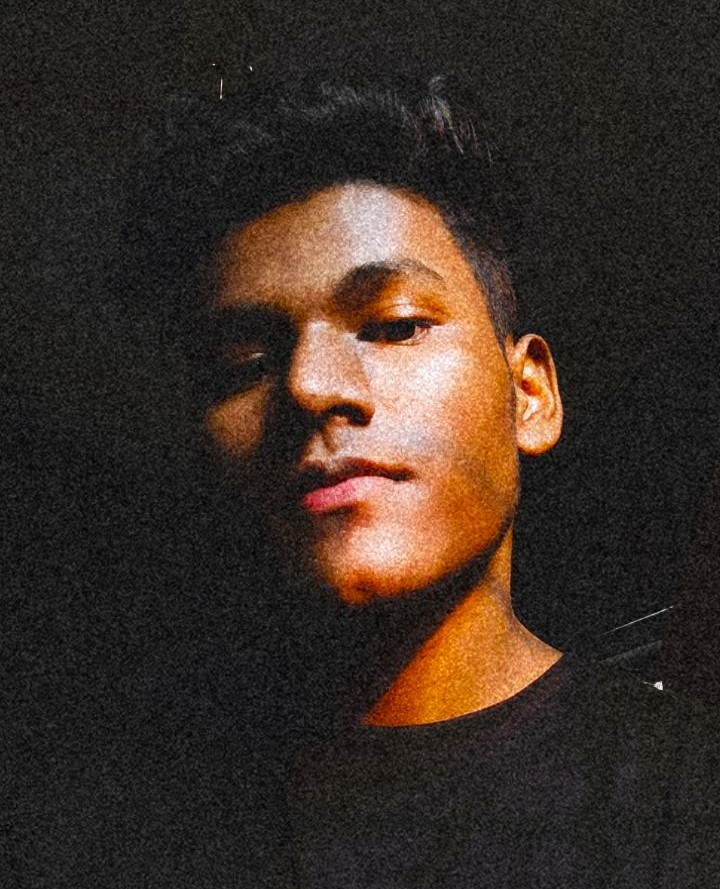
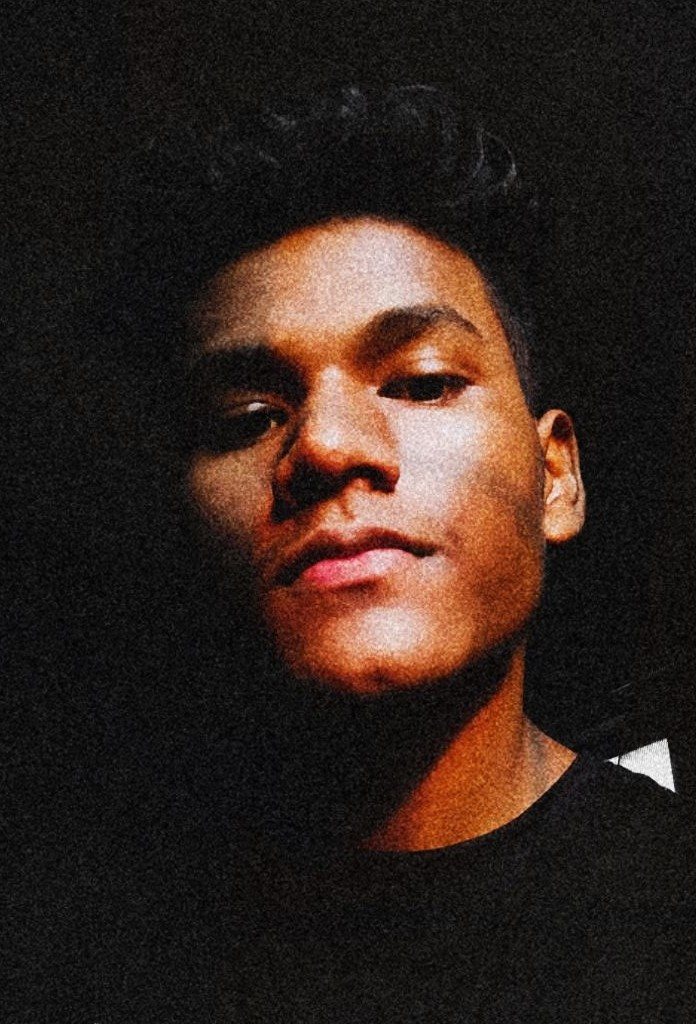
ready

diff --git a/src/components/WorkExperience.jsx b/src/components/WorkExperience.jsx
@@ -5,6 +5,7 @@ import gsap from 'gsap'
 import ScrollTrigger from 'gsap/dist/ScrollTrigger';
 import { WORK_EXPERIENCE } from '../constants';
 import { Dancing_Script } from 'next/font/google'
+import { me_ } from '../assests';
 
 
 const DS_font = Dancing_Script({ subsets: ['latin'] ,weight: ['400', '700']})
@@ -92,8 +93,10 @@ const WorkExperience = () => {
         </div>
 
         <div className='relative flex justify-center items-center h-full overflow-hidden'>
-            <div className='absolute left-1/2 -translate-x-1/2 border top-0 bottom-0 w-2 border-[#987070] border-x-4 z-0'></div>
-            <div className='absolute left-1/2 -translate-x-1/2 border top-0 bottom-0 block h-20 w-20 rounded-full bg-cyan-400 md:z-20 z-10' id='rounded-me'></div>
+            <div className='absolute left-1/2 -translate-x-1/2 border top-0 bottom-0 w-2 border-[#865f5f] border-x-8 z-0 rounded-tl-[50%] rounded-tr-[50%]'></div>
+            <div className='absolute left-1/2 -translate-x-1/2 border top-0 bottom-0 block h-20 w-20 rounded-full bg-cyan-400 md:z-20 z-10' id='rounded-me'>
+            <Image src={me_} alt='' className='h-full w-full rounded-full'></Image>
+            </div>
             <div className=' font-mono exp-container h-full w-full md:p-5 p-1  flex flex-col md:justify-around justify-center md:gap-0 gap-12 items-center'>
                 {WORK_EXPERIENCE.map((exp,i)=>{
                     if(i){

diff --git a/src/components/About.jsx b/src/components/About.jsx
@@ -14,6 +14,17 @@ import {me,bottom_design} from "../assests"
 
     useEffect(()=>{
         
+        gsap.to('#me',{
+            borderRadius:'50%',
+            duration:1,
+            ease:'circ',
+            scrollTrigger:{
+                trigger:'#about',
+                start:'top center',
+                end:'bottom top',
+                scrub:true,
+            }
+        })
         gsap.fromTo('.social',{
             x:-50,
         },{
@@ -58,7 +69,7 @@ import {me,bottom_design} from "../assests"
             <div className='content-container flex md:flex-row flex-col justify-center items-center gap-5 '>
                     <div className='about-photo  flex flex-col  w-80 '>
                         <div className='w-full relative z-10  h-full flex justify-center  '>
-                            <Image src={me} width={''} height={''} className='w-64 md:w-[400px] shadow-md shadow-black' alt=''/>
+                            <Image src={me} width={''} height={''} className='w-64 md:w-[400px] shadow-md shadow-black' alt='' id='me'/>
                             </div>
   
                     </div>

diff --git a/src/components/Contact.jsx b/src/components/Contact.jsx
@@ -38,7 +38,7 @@ const Contact = () => {
         ></div>
       ))}
     <div className='relative '>
-    <div className='md:text-4xl text-2xl font-mono text-white text-center font-bold p-5 relative first-letter:text-6xl first-letter:font-extrabold z-10'>Contact Me</div>
+    <div className='md:text-4xl text-2xl font-mono text-white text-center font-bold p-5 relative md:first-letter:text-6xl  first-letter:text-3xl first-letter:font-extrabold z-10' style={{color:'lavenderblush'}}>Contact Me</div>
     {isMobile?null:<div className='img-container rotate absolute top-10 left-10 z-0 '> 
         <Image src={moon} alt='moon' height={''} width={''} className='md:h-[200px] md:w-[200px] h-[150px] w-[150px] '></Image>
     </div>}

diff --git a/src/components/Project.jsx b/src/components/Project.jsx
@@ -29,7 +29,7 @@ const Project = () => {
 
         <div className=' flex justify-center ocean gap-1 pt-10'>
           <Image src={mespace} width={68} height={68} alt='.' className=''></Image>
-            <h1 className='text-white md:text-4xl text-2xl text-center font-mono font-bold first-letter:text-6xl'>Projects</h1>
+            <h1 className='text-white md:text-4xl text-2xl text-center font-mono font-bold md:first-letter:text-6xl first-letter:text-3xl'>Projects</h1>
         </div>
         <div className='flex justify-center  ' > <Image src={rightArrow} height={80} onClick={handleNext} width={80} className='transition-all duration-150 cursor-pointer hover:scale-125 z-[99]' alt=''></Image></div>
 

diff --git a/src/components/Project.css b/src/components/Project.css
@@ -6,6 +6,7 @@
   .universe-background-rev {
     background: radial-gradient(circle at center bottom, #2f6292, transparent 70%), #090a0f;
     position: relative;
+    box-shadow: 0px -2px 10px #1f133f;
     overflow: hidden;  
   }
   .onhover{
@@ -20,8 +21,8 @@
     animation: animateCard 1s ease-in-out;
   }
   .contact{
-background: radial-gradient(circle at center center, #8d8e2d87, #1f133f 70%), #761474;;
-box-shadow: 0px -10px 9px palevioletred;
+background: radial-gradient(circle at center center, #8d8e2d87, #1f133f 51%), #761474;;
+box-shadow: 0px -10px 7px #1f133f;
   }
   .contact-forms{
     border-bottom-left-radius: 20%;

diff --git a/src/assests/index.js b/src/assests/index.js
@@ -23,4 +23,5 @@ import me from "./me.jpg"
 import clicksound from "./ps4-select-button.mp3"
 import rightArrow from "./icons8-right-arrow-96.png"
 import bottom_design from "./bottom_design.png"
-export {bottom_design,sun,ocean,cplus,c,gcp,mysql,python,react,typescript,githubsocial,linkedin,instagram,cloud,moon, link,cinflix,magiccards,quiz,algorithmvisual,mespace,clicksound,me,rightArrow,mongo}
+import me_ from "./me_.jpg"
+export {me_,bottom_design,sun,ocean,cplus,c,gcp,mysql,python,react,typescript,githubsocial,linkedin,instagram,cloud,moon, link,cinflix,magiccards,quiz,algorithmvisual,mespace,clicksound,me,rightArrow,mongo}

diff --git a/src/components/Hero.jsx b/src/components/Hero.jsx
@@ -14,8 +14,10 @@ const Hero = () => {
   useEffect(() => {
     gsap.registerPlugin(ScrollTrigger);
 
-    gsap.to('#sun', {
-      y: 500,
+    gsap.fromTo('#sun',{
+    
+    }, {
+      y: 400,
       rotation: 180,
       ease: 'power1.inOut',
       duration: 1,

diff --git a/src/components/Header.jsx b/src/components/Header.jsx
@@ -23,7 +23,7 @@ const Header = () => {
           setColor([1,'orange'])
           break
         case 2:
-          setColor([2,'pink'])
+          setColor([2,'#67e8ca'])
           break;
         case 3:
             setColor([3,'#f9f7cd'])
